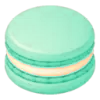
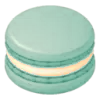
Enable unlimited stage attempts for playtesting

diff --git a/src/app/App.tsx b/src/app/App.tsx
@@ -3,7 +3,7 @@ import { LanguageContext, readLanguagePreference, saveLanguagePreference } from 
 import type { MouseEvent } from 'react';
 import { playSound, readSoundPreference, saveSoundPreference, setMusicScene, unlockSound } from '../effects/sound';
 import { canAffordAttempt, getCurrentStage } from '../game/session';
-import { canEarnHearts } from '../game/hearts';
+import { canEarnHearts, MAX_HEARTS } from '../game/hearts';
 import { isBonusStage, isStageId, isStageLoaded, loadStage, practiceStage, preloadStage } from '../game/stages';
 import { randomBonusDessert } from '../game/stages/bonus';
 import { BONUS_AT_STAGE_00_FOR_TESTING } from '../game/constants';
@@ -52,6 +52,7 @@ export function App() {
     if (button && !button.disabled && button.dataset.sfx !== 'none') playSound('tap');
   }
   const { screen, game, stars } = session;
+  const displayedHearts = session.unlimitedHearts ? { ...session.hearts, count: MAX_HEARTS } : session.hearts;
   // Bonus stages have their own track.
   const musicScene = screen !== 'game' ? 'menu' : isBonusStage(game.stageId) ? 'bonus' : 'game';
   useEffect(() => setMusicScene(musicScene), [musicScene]);
@@ -92,13 +93,13 @@ export function App() {
     {screen === 'start'
       ? <StartPage stage={currentStage} settings={settings} onGame={() => start(currentStage)} onStages={() => dispatch({ type: 'STAGES' })} />
       : screen === 'stages'
-        ? <StageSelectPage stars={stars} hearts={session.hearts} onChargeHearts={openCharge} settings={settings} unlockAllStages={session.unlockAllStages} onGame={start} />
+        ? <StageSelectPage stars={stars} hearts={displayedHearts} onChargeHearts={openCharge} settings={settings} unlockAllStages={session.unlockAllStages} onGame={start} />
         : <GamePage key={game.stageId} settings={settings} state={game} dispatch={action => dispatch({ type: 'GAME', action, now: Date.now() })} onStages={() => dispatch({ type: 'STAGES' })} onNext={next}
           canRestart={() => canAffordAttempt(session, game.stageId)} onOutOfHearts={() => setOutOfHearts(true)} />
     }
     {screen === 'start' && !modeChosen && <ModeChoiceDialog onChoose={changeMode} />}
-    {outOfHearts && <NoHeartsDialog hearts={session.hearts} onClose={closeOutOfHearts} onCharge={openCharge} />}
-    {chargeOpen && <ChargeHeartsDialog hearts={session.hearts} onClose={() => setChargeOpen(false)}
+    {outOfHearts && <NoHeartsDialog hearts={displayedHearts} onClose={closeOutOfHearts} onCharge={openCharge} />}
+    {chargeOpen && <ChargeHeartsDialog hearts={displayedHearts} onClose={() => setChargeOpen(false)}
       onCharge={amount => { dispatch({ type: 'CHARGE_HEARTS', amount, now: Date.now() }); setChargeOpen(false); }} />}
     {loadingStage !== undefined && <p className="stage-loading" role="status">Loading…</p>}
   </div></LanguageContext>;

diff --git a/src/game/session.ts b/src/game/session.ts
@@ -14,6 +14,7 @@ export interface SessionState {
   stars: Record<number, number>;
   score: number;
   unlockAllStages: boolean;
+  unlimitedHearts: boolean;
   /** Tray clears carried between stages; each stage clear earns one more. */
   trayClears: number;
   hearts: Hearts;
@@ -32,8 +33,8 @@ export type SessionAction =
   | { type: 'GAME'; action: GameAction; now?: number }
   | { type: 'CHARGE_HEARTS'; amount?: number; now?: number };
 
-export function createSession(unlockAllStages = false): SessionState {
-  return { screen: 'start', game: createGame(getStage(1)), stars: {}, score: 0, unlockAllStages, trayClears: STARTING_TRAY_CLEARS, hearts: fullHearts(), rewardedStages: [] };
+export function createSession(unlockAllStages = false, unlimitedHearts = false): SessionState {
+  return { screen: 'start', game: createGame(getStage(1)), stars: {}, score: 0, unlockAllStages, unlimitedHearts, trayClears: STARTING_TRAY_CLEARS, hearts: fullHearts(), rewardedStages: [] };
 }
 // Tray clears are a single pool: three at the very start, +1 for each stage's first clear, never refilled otherwise.
 export const STARTING_TRAY_CLEARS = 3;
@@ -80,11 +81,11 @@ function grantHeart(hearts: Hearts, now: number): Hearts {
 export const isFreeStage = (id: number) => id === practiceStage.id || isBonusStage(id);
 /** Whether a paid attempt can start now. */
 export function canAffordAttempt(state: SessionState, stageId: number, now = Date.now()): boolean {
-  return isFreeStage(stageId) || refillHearts(state.hearts, now).count >= 1;
+  return state.unlimitedHearts || isFreeStage(stageId) || refillHearts(state.hearts, now).count >= 1;
 }
 /** Pays one heart for an attempt at a campaign stage; null when no heart is left. */
 function payForAttempt(state: SessionState, stageId: number, now: number): Pick<SessionState, 'hearts' | 'heartPaidFrom'> | null {
-  if (isFreeStage(stageId)) return { hearts: state.hearts, heartPaidFrom: undefined };
+  if (state.unlimitedHearts || isFreeStage(stageId)) return { hearts: state.hearts, heartPaidFrom: undefined };
   const paid = spendHeart(state.hearts, now);
   return paid ? { hearts: paid.hearts, heartPaidFrom: paid.from } : null;
 }

diff --git a/src/game/hearts.test.ts b/src/game/hearts.test.ts
@@ -1,6 +1,6 @@
 import { describe, expect, it } from 'vitest';
 import { addHeart, chargeAmount, chargeFromBonus, describeHearts, fullHearts, HEART_REFILL_MS, MAX_HEARTS, parseHearts, refillHearts, spendHeart, type Hearts } from './hearts';
-import { createSession, reduceSession } from './session';
+import { canAffordAttempt, createSession, reduceSession } from './session';
 import { BONUS_STAGE_ID } from './constants';
 import { getStage, loadStage } from './stages';
 import { createBonusStage } from './stages/bonus';
@@ -67,6 +67,23 @@ describe('하트', () => {
     const cleared = reduceSession(retried, { type: 'GAME', action: { type: 'PICKUP_TRAY', readyOrders: [order.definitionId], parallel: true }, now: 0 });
     expect(cleared.game.status).toBe('clear');
     expect(cleared.hearts.count).toBe(4);
+  });
+
+  it('테스트 모드에서는 하트가 없어도 시작과 재도전에 저장된 하트를 쓰지 않는다', async () => {
+    await loadStage(1);
+    const hearts = { count: 0, bonus: 3, refillFrom: 0 };
+    const session = { ...createSession(false, true), hearts };
+    expect(canAffordAttempt(session, 1, 0)).toBe(true);
+
+    const started = reduceSession(session, { type: 'START', stageId: 1, now: 0 });
+    expect(started.screen).toBe('game');
+    expect(started.hearts).toBe(hearts);
+
+    const failed = { ...started, game: { ...started.game, status: 'gameover' as const } };
+    const retried = reduceSession(failed, { type: 'GAME', action: { type: 'RESTART' }, now: 0 });
+    expect(retried.game.status).toBe(started.game.status);
+    expect(retried.hearts).toBe(hearts);
+    expect(retried.heartPaidFrom).toBeUndefined();
   });
 
   it('하트가 없으면 캠페인 스테이지를 시작하거나 다시 할 수 없다', async () => {

diff --git a/src/hooks/useGame.ts b/src/hooks/useGame.ts
@@ -1,13 +1,13 @@
 import { useEffect, useReducer } from 'react';
 import { createSession, MAX_TRAY_CLEARS, reduceSession } from '../game/session';
-import { UNLOCK_ALL_STAGES_FOR_TESTING } from '../game/constants';
+import { UNLIMITED_HEARTS_FOR_TESTING, UNLOCK_ALL_STAGES_FOR_TESTING } from '../game/constants';
 import { isStageId } from '../game/stages';
 import { parseHearts } from '../game/hearts';
 
 const progressKey = 'sweet-order-progress-v1';
 
 function loadSession() {
-  const session = createSession(UNLOCK_ALL_STAGES_FOR_TESTING);
+  const session = createSession(UNLOCK_ALL_STAGES_FOR_TESTING, UNLIMITED_HEARTS_FOR_TESTING);
   try {
     const saved = JSON.parse(localStorage.getItem(progressKey) ?? 'null');
     if (!saved) return session;

diff --git a/src/game/constants.ts b/src/game/constants.ts
@@ -1,6 +1,9 @@
 // Set to true to open every stage for playtesting.
 export const UNLOCK_ALL_STAGES_FOR_TESTING = false;
 
+// Set to false to restore normal heart costs and counter display after playtesting.
+export const UNLIMITED_HEARTS_FOR_TESTING = true;
+
 export const QUEUE_COUNT = 8;
 export const ORDER_SLOTS = 4;
 export const BASE_TRAY_CAPACITY = 12;
